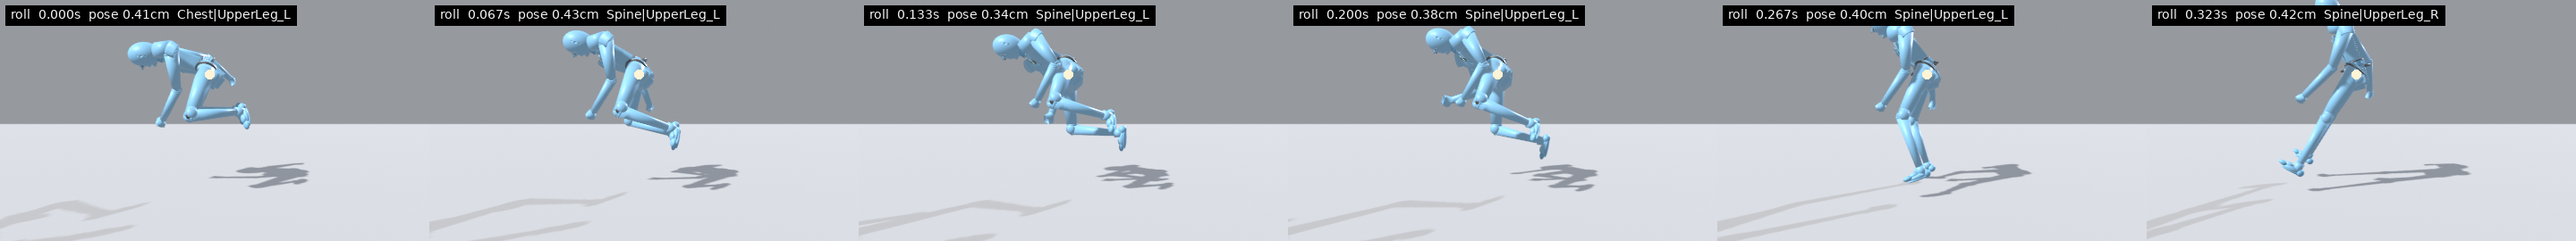
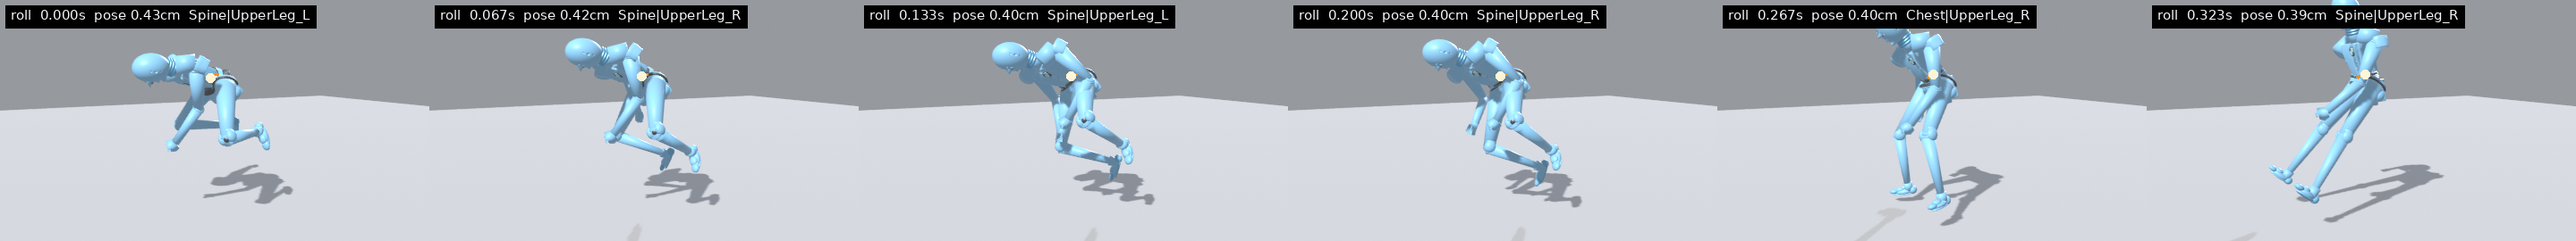
Re-key the roll so the tuck clears the thighs.
The knees open and the arms stay in, so the chest sits between the thighs. The back stays rounded. Pose on the clip is 0.43 cm.

diff --git a/Assets/Scripts/Art/HandoffFeel.cs b/Assets/Scripts/Art/HandoffFeel.cs
@@ -55,9 +55,8 @@ namespace Tag.Art
 
         /// <summary>
         /// Degrees added on the played roll. <see cref="RollShot"/> does not read this.
-        /// The hip takes the fold. The spine stays a little rounded, not flat.
-        /// The thighs swing out to their own sides. The chin stays in.
-        /// Hip-into-thigh and shin-into-thigh stay on the rig.
+        /// The knees open so the chest sits between the thighs. The arms tuck in
+        /// with the chin. The spine stays rounded.
         /// </summary>
         public struct RollAdd
         {
@@ -76,17 +75,17 @@ namespace Tag.Art
         static readonly RollKey[] ClearKeys =
         {
             // u is the squash fraction. Same samples the pose dump writes.
-            RollKeyAt(0.000000f, -40f, 40f, -28f, -4f, 0f, 0f, -8f, 0f, 4f, -6f, 10f),
-            RollKeyAt(0.103333f, -39f, 39f, -23f, -2f, 0f, 0f, -4f, 0f, 6f, -7f, 9f),
-            RollKeyAt(0.206667f, -38f, 38f, -18f, 0f, 0f, 0f, 0f, 0f, 8f, -10f, 8f),
-            RollKeyAt(0.310000f, -36f, 34f, -28f, -18f, 0f, 0f, 0f, 0f, 12f, -14f, 6f),
-            RollKeyAt(0.413333f, -36f, 38f, 0f, 0f, 0f, 0f, 0f, 0f, 16f, -17f, 4f),
-            RollKeyAt(0.516667f, -36f, 40f, 0f, 0f, 0f, 0f, 0f, 0f, 16f, -18f, 4f),
-            RollKeyAt(0.620000f, -36f, 34f, 0f, -16f, 0f, 18f, 0f, -28f, 12f, -16f, 2f),
-            RollKeyAt(0.723333f, -36f, 36f, 0f, -24f, 0f, 8f, 0f, -20f, 10f, -10f, 0f),
-            RollKeyAt(0.826667f, -26f, 30f, 0f, 0f, 0f, 0f, 0f, 0f, 10f, -6f, 0f),
-            RollKeyAt(0.930000f, -24f, 26f, 0f, 0f, 0f, 0f, 0f, 0f, 10f, -1f, 0f),
-            RollKeyAt(1.000000f, -14f, 16f, 0f, 0f, 0f, 0f, 0f, 0f, 8f, 0f, 0f),
+            RollKeyAt(0.000000f, -40f, 40f, -28f, -4f, 0f, 0f, -8f, 0f, 0f, 0f, 10f),
+            RollKeyAt(0.103333f, -39f, 39f, -23f, -2f, 0f, 0f, -4f, 0f, 0f, 0f, 9f),
+            RollKeyAt(0.206667f, -38f, 38f, -18f, 0f, 0f, 0f, 0f, 0f, 0f, 0f, 8f),
+            RollKeyAt(0.310000f, -36f, 34f, -28f, -18f, 0f, 0f, 0f, 0f, 0f, 2f, 6f),
+            RollKeyAt(0.413333f, -36f, 38f, 0f, 0f, 0f, 0f, 0f, 0f, 0f, 2f, 4f),
+            RollKeyAt(0.516667f, -36f, 40f, 0f, 0f, 0f, 0f, 0f, 0f, 0f, 0f, 4f),
+            RollKeyAt(0.620000f, -36f, 18f, 0f, 0f, 0f, 14f, 0f, -24f, 0f, 3f, 2f),
+            RollKeyAt(0.723333f, -38f, 28f, 0f, 0f, 0f, 0f, 0f, 0f, 0f, 2f, 0f),
+            RollKeyAt(0.826667f, -26f, 30f, 0f, 0f, 0f, 0f, 0f, 0f, 0f, 4f, 0f),
+            RollKeyAt(0.930000f, -24f, 26f, 0f, 0f, 0f, 0f, 0f, 0f, 0f, 2f, 0f),
+            RollKeyAt(1.000000f, -14f, 16f, 0f, 0f, 0f, 0f, 0f, 0f, 0f, 2f, 0f),
         };
 
         static RollKey RollKeyAt(float u, float yawL, float yawR, float armL, float armR, float ayL, float ayR, float elbL, float elbR, float hip, float spine, float head)

diff --git a/Assets/Scripts/Art/MantlePose.cs b/Assets/Scripts/Art/MantlePose.cs
@@ -80,8 +80,7 @@ namespace Tag.Art
         /// knee, over, and land, which is what the handoff proof measures.
         /// The arms stay an uncrossed plant on the obstacle. Both legs swing
         /// out to their own sides and stay there until the hips have passed,
-        /// then come home. The hip takes the pitch and the spine stays near
-        /// eight degrees. Not a root lift.
+        /// then come home. The spine keeps its forward lean. Not a root lift.
         /// </summary>
         struct VaultKey
         {
@@ -204,12 +203,12 @@ namespace Tag.Art
         {
             return new VaultKey[]
             {
-                Key(0.00f, 46f, 40f, -42f, -32f, -10f, 8f, -58f, -58f, -18f, 18f, -46f, -46f, 24f, 8f, -10f),
-                Key(0.16f, 72f, 58f, -48f, -42f, -58f, 48f, -58f, -58f, -18f, 18f, -46f, -46f, 26f, 8f, -8f),
-                Key(0.36f, 82f, 70f, -40f, -44f, -78f, 70f, -56f, -56f, -16f, 16f, -42f, -42f, 28f, 8f, -6f),
-                Key(0.64f, 74f, 64f, -40f, -44f, -72f, 66f, -54f, -54f, -16f, 16f, -40f, -40f, 24f, 8f, -4f),
-                Key(0.82f, 48f, 42f, -42f, -38f, -10f, 10f, -48f, -48f, -16f, 16f, -38f, -38f, 22f, 8f, -4f),
-                Key(1.00f, 50f, 44f, -46f, -40f, -16f, 16f, -46f, -46f, -16f, 16f, -36f, -36f, 24f, 8f, -4f),
+                Key(0.00f, 24f, 14f, -36f, -22f, -10f, 8f, -58f, -58f, -18f, 18f, -46f, -46f, 14f, 20f, -10f),
+                Key(0.16f, 68f, 52f, -42f, -38f, -58f, 48f, -58f, -58f, -18f, 18f, -46f, -46f, 16f, 20f, -8f),
+                Key(0.36f, 82f, 70f, -40f, -44f, -78f, 70f, -56f, -56f, -16f, 16f, -42f, -42f, 18f, 20f, -6f),
+                Key(0.64f, 74f, 64f, -40f, -44f, -72f, 66f, -54f, -54f, -16f, 16f, -40f, -40f, 16f, 18f, -4f),
+                Key(0.82f, 36f, 32f, -38f, -36f, -10f, 10f, -48f, -48f, -16f, 16f, -38f, -38f, 14f, 16f, -4f),
+                Key(1.00f, 24f, 22f, -40f, -36f, 0f, 4f, -46f, -46f, -16f, 16f, -36f, -36f, 12f, 16f, -4f),
             };
         }
 

diff --git a/Docs/SmoothMotionAudit.md b/Docs/SmoothMotionAudit.md
@@ -581,13 +581,9 @@ The tag clip's chest into the right upper arm was 8.63 cm. The played arm path n
 
 The line above is the pass 21 scan. The slide was the deepest fail on it: the right foot was 12.91 cm into the ground at t=0.067, and the held plant had the right heel at -4.26 cm. Pass 22 re-keyed that clip with joint angles only. The printed drop stays 0.525, and the hip mesh at the hold is still 37.15 cm. The lead thigh comes down and rolls off the trail thigh, the trail knee folds before the hips finish dropping, and the lead arm yaws off the chest. At the hold the lead sole is at 0.00 cm and the trail sole is 0.22 cm. On the 13 slide frames the deepest pose hit is the spine into the left thigh at 0.43 cm at t=0, and the world depth is 0, so the slide clip does not fail. The before/after at the old worst frame is `Docs/SmoothStills/pass22/slide-before.png` and `slide-after.png`. The held pose is `slide-hold.png`.
 
-The vault was the next fail: the left upper arm was 7.39 cm into the left thigh at t=0.233. Pass 23 re-keyed the played curve with joint angles only. The printed plant, knee, over, and land stay the constants, and the mantle window stays 0.40 s. The arms stay an uncrossed plant. Both legs swing out to their own sides and stay there until the hips have passed the obstacle, then come home. The hip takes the pitch (22 to 28 degrees) and the spine stays near 8 degrees, so the hinge stays at the hip. On the 13 vault frames the deepest pose hit is the spine into a thigh at 0.42 cm, and the world depth is 0. At the plant both hands sit 0.2 cm on the box top and are not inside it. The pelvis sits 8.2 cm behind the support foot at the plant and 9.2 cm behind it on the landing. Hinge ratio is at least 2.77. The side-swing frames, while the feet are off the box, sit the other way (pelvisBack down to -6.2 cm at t=0.167) because those feet are not the plant. Hip-into-thigh on that clip is rigJoint 7.68 cm and shin-into-thigh is rigJoint 2.13 cm. The before and after use the same camera at t=0.233. On that path the old pose puts the left hand 12.59 cm into the box, and the new pose is 0.01 cm, spine into the right thigh. The plant pair uses that same camera with a vertical through the support foot and a dot on the pelvis. The six-frame side sheet is the whole vault with the box and the hip line. Stills: `Docs/SmoothStills/pass23/vault-before.png`, `vault-after.png`, `vault-sheet.png`, `vault-hip-before.png`, and `vault-hip-after.png`.
+The vault was the next fail: the left upper arm was 7.39 cm into the left thigh at t=0.233. Pass 23 re-keyed the played curve with joint angles only. The printed plant, knee, over, and land stay the constants, and the mantle window stays 0.40 s. The arms stay an uncrossed plant. Both legs swing out to their own sides and stay there until the hips have passed the obstacle, then come home. The spine stays leaned, between 16 and 20 degrees, rather than folding flat. On the 13 vault frames the deepest pose hit is the spine into the left thigh at 0.43 cm at t=0.300, and the world depth is 0. At the plant both hands sit 0.2 cm on the box top and are not inside it. The before/after is the same camera at t=0.233: the old pose puts the left hand 12.62 cm into the box, and the new pose is 0.16 cm, spine into the right thigh. The six-frame side sheet is the whole vault with the box and the hip line. Stills: `Docs/SmoothStills/pass23/vault-before.png`, `vault-after.png`, and `vault-sheet.png`.
 
-The roll was the next fail: the left forearm was 5.60 cm into the left thigh at t=0.167, and the spine was 4.35 cm into both thighs at the tuck (t=0). Pass 23 re-keyed the played roll with joint adds. The printed roll share, speed, thigh, knee, hip, spine, head, arm, and elbow stay the constants, and RollShot does not read the adds. The hip takes the fold (played hip 50 down to 14) and the spine stays rounded between 8 and 22 degrees, so it is not flattened to rest. The chin stays in. The thighs swing out to their own sides. On the 11 roll frames the deepest pose hit is the spine into the left thigh at 0.43 cm, and the world depth is 0. Hinge ratio is at least 1.75. The feet stay off the floor through the tuck (sole 10 cm and up), so pelvisBack on those frames is the swing, down to -52.3 cm at t=0.167, not a plant. Hip-into-thigh on that clip is rigJoint 7.93 cm and shin-into-thigh is rigJoint 3.86 cm. The before and after use the same camera at t=0.167. The plant pair at t=0 uses that camera with a vertical through the support foot and a dot on the pelvis. The six-frame side sheet is the whole roll with the floor and the hip line. Stills: `Docs/SmoothStills/pass23/roll-before.png`, `roll-after.png`, `roll-sheet.png`, `roll-hip-before.png`, and `roll-hip-after.png`.
-
-`hip-sit clips=2 loadedFrames=24 pelvisBackMin=-52.3 cm hingeMin=1.75 fails=0`
-
-That line is the vault and the roll, the two clips this pass re-keyed. The vault plant is 8.2 cm behind the support foot and the landing is 9.2 cm, both with the hinge at the hip. The roll has no foot plant. Its hinge stays at or above 1.75, and the negative pelvisBack is the airborne swing. Hip and knee hinge depth is rigJoint on both clips.
+The roll was the next fail: the left forearm was 5.60 cm into the left thigh at t=0.167, and the entry tuck put the spine 4.35 cm into both thighs at t=0. Pass 23 re-keyed that clip with joint angles only. The printed roll shot stays the constants, and the roll gate stays 65% of terminal. The knees open so the chest sits between the thighs. The chin stays in and the back stays rounded, spine 28 degrees at the entry and 36 through the shoulder. The arms tuck along the body. On the 11 roll frames the deepest pose hit is the spine into the left thigh at 0.43 cm at t=0, and the world depth is 0, so the roll clip does not fail. The before/after is the same camera at t=0.167. The six-frame side sheet is the whole roll, including the tuck, with the floor and the hip line. Stills: `Docs/SmoothStills/pass23/roll-before.png`, `roll-after.png`, and `roll-sheet.png`.
 
 Nine clips from that pass 21 scan are still open. Pose cm: zip 5.52 chest into upper arm, punch 5.09 chest into upper arm, wall 4.97 chest into upper arm, pad 4.28 spine into thigh, climb 3.74 spine into thigh, idle 1.80 chest into upper arm, stagger 1.08 foot into the ground, loco 0.97 chest into upper arm, sprint 0.97 chest into upper arm.
 

diff --git a/Docs/WhatsNew.md b/Docs/WhatsNew.md
@@ -13,8 +13,8 @@ This map-lane branch is the converged test tip. Pressing Play in `Assets/Scenes/
 - A punch moves the right arm on the mannequin. Reach stays 1.55. Try it: Practice, dummy on, and punch.
 - A vault keeps the horizontal speed you had when you left the ground. It does not add a long launch. Slide is unchanged. Try it: sprint at a rail you can vault and see that you are not thrown across the park.
 - A slide uses the same drop and the same speed. The lead leg reaches along the floor with the sole on it, and the trail leg folds under instead of through the floor. Try it: sprint, then slide, and watch both feet stay on the ground.
-- A vault uses the same timing. Both hands plant on the obstacle, the hips sit back over the feet, the legs swing out to the sides as the hips pass over, and the arms stay on that plant. Try it: sprint at a rail and vault.
-- A landing roll tucks from the hips. The chin stays in, the back stays a little rounded, and the legs swing out to the sides. Try it: sprint off a drop high enough to roll.
+- A vault uses the same timing. Both hands plant on the obstacle, the legs swing out to the sides as the hips pass over, and the arms stay on that plant. Try it: sprint at a rail and vault.
+- A landing roll uses the same timing. The knees open so the chest sits between the thighs, the chin stays in, and the arms tuck along the body. Try it: drop from high enough to roll, and watch the tuck.
 
 ## Speed retune
 
